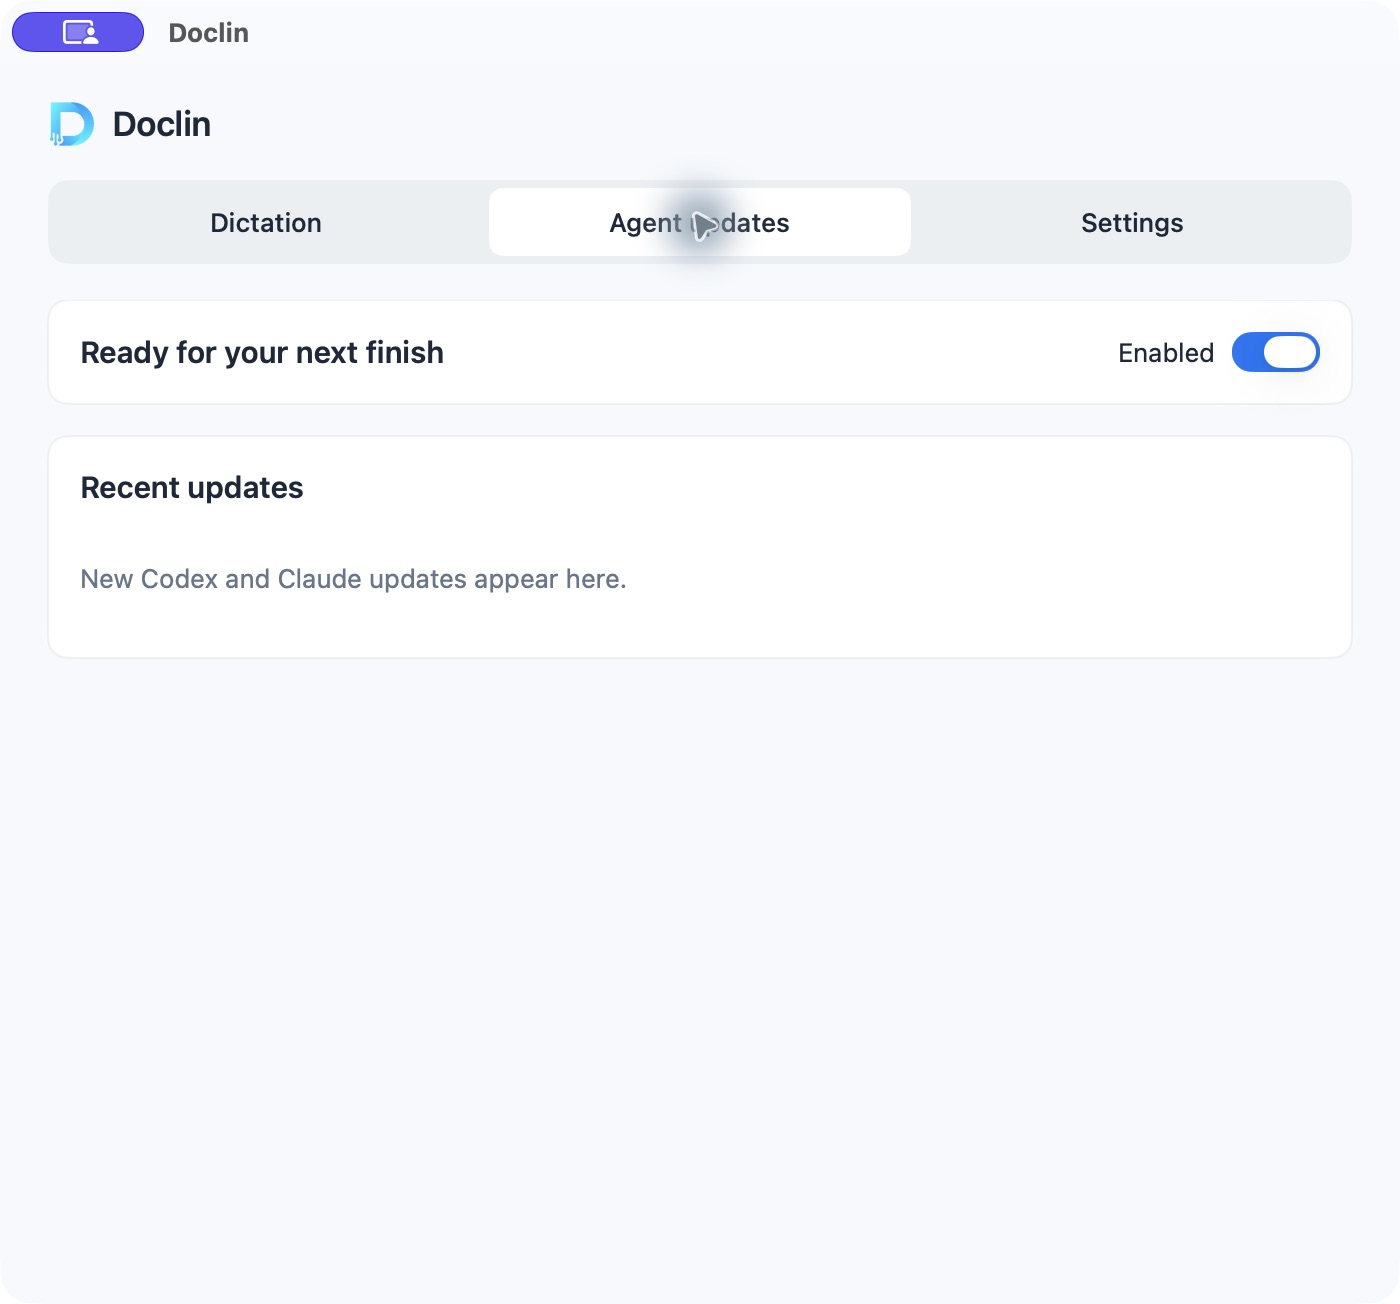
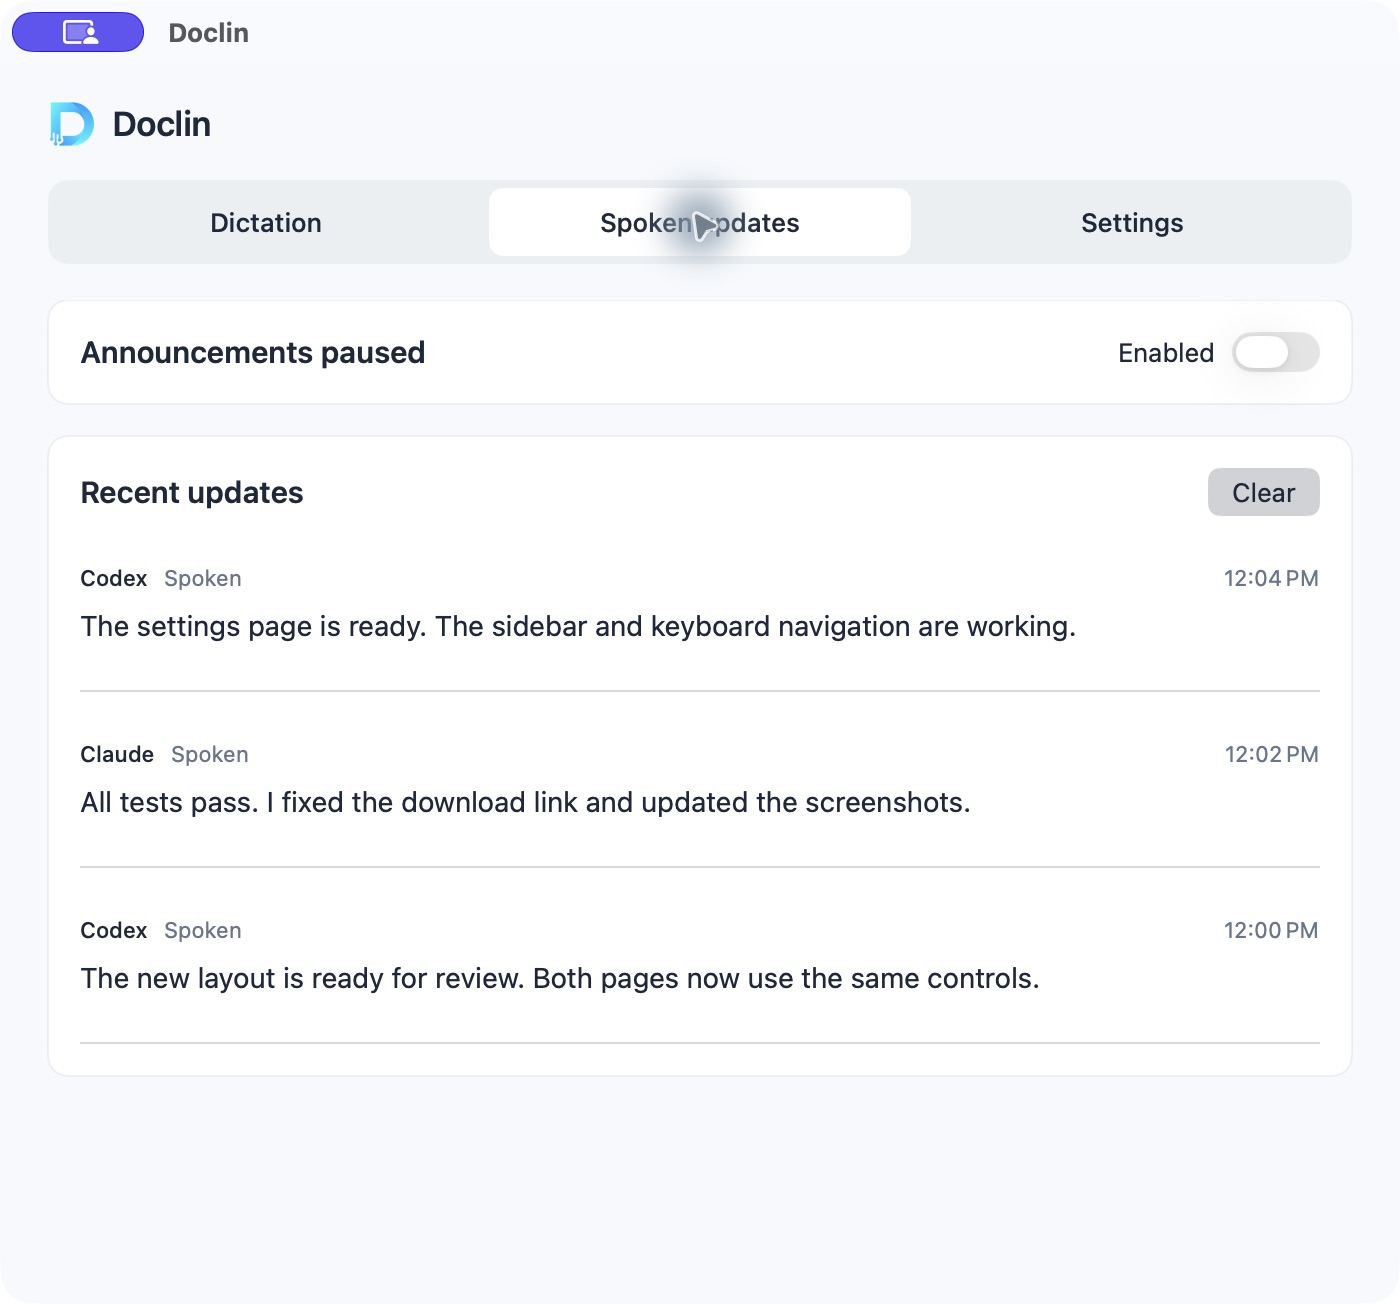
Show populated app previews and clarify Spoken updates label (#14)

diff --git a/Sources/Doclin/main.swift b/Sources/Doclin/main.swift
@@ -59,10 +59,21 @@ if CommandLine.arguments.contains("--doclin-hook") {
         if CommandLine.arguments.contains("--ui-audit"),
            DoclinPaths.support.path.hasPrefix("/tmp/doclin-"), !model.dictation.settings.enabled,
            model.preferences.muted, !model.preferences.codexEnabled, !model.preferences.claudeEnabled {
-            for i in 1...4 {
-                model.dictation.history.record(id: UUID(), text: "Dictation sample \(i). Keep the number 123 and the project name Doclin.", original: "dictation sample \(i) keep the number 123 and the project name Doclin", destination: "Notes", timestamp: Date().addingTimeInterval(Double(i)))
-                let event = AgentEvent(source: i % 2 == 0 ? "Codex" : "Claude", session: "ui-audit-\(i)", text: "Sample update \(i). Tests pass and the task is ready for review.", timestamp: Date().addingTimeInterval(Double(i)))
-                model.history.insert(Announcement(id: UUID(), event: event, text: event.text, state: "Spoken", mode: "Local"), at: 0)
+            let dictations = [
+                ("Notes", "Make the settings simpler: one sidebar, clear labels, and no repeated headings."),
+                ("Mail", "Hi Alex, the new build is ready. Could you try the Mac version and send me your feedback?")
+            ]
+            for (i, sample) in dictations.enumerated().reversed() {
+                model.dictation.history.record(id: UUID(), text: sample.1, original: sample.1, destination: sample.0, timestamp: Date().addingTimeInterval(Double(-120 * (i + 1))))
+            }
+            let updates = [
+                ("Codex", "The settings page is ready. The sidebar and keyboard navigation are working."),
+                ("Claude", "All tests pass. I fixed the download link and updated the screenshots."),
+                ("Codex", "The new layout is ready for review. Both pages now use the same controls.")
+            ]
+            for (i, sample) in updates.enumerated() {
+                let event = AgentEvent(source: sample.0, session: "ui-audit-\(i)", text: sample.1, timestamp: Date().addingTimeInterval(Double(-120 * (i + 1))))
+                model.history.append(Announcement(id: UUID(), event: event, text: event.text, state: "Spoken", mode: "Local"))
             }
         }
         #endif

diff --git a/docs/site/.vitepress/theme/style.css b/docs/site/.vitepress/theme/style.css
@@ -151,10 +151,6 @@
 .doclin-home .privacy-note { font-size: 13px; color: var(--vp-c-text-2); margin-top: 20px; }
 @media(max-width: 560px) { .doclin-home { margin-top: 38px; padding: 0 20px; } .doclin-home .lead { font-size: 17px; } .doclin-home .how-it-works { flex-direction: column; gap: 8px; } }
 
-.doclin-home .agent-details { margin: 22px auto 0; font-size: 14px; color: var(--vp-c-text-2); }
-.doclin-home .agent-details summary { cursor: pointer; color: var(--vp-c-brand-1); }
-.doclin-home .agent-details summary:focus-visible { outline: 2px solid #53a4f4; outline-offset: 4px; }
-
 /* One dark palette across the landing, installation and privacy pages. */
 :root, .dark {
   color-scheme: dark;
@@ -174,3 +170,13 @@
 .doclin-home .download { background: #5cdaff; color: #111827; }
 .doclin-home .download:hover { background: #8be6ff; }
 .doclin-home .app-shot { box-shadow: 0 14px 44px #0006; }
+
+.doclin-home .product-preview { margin: 30px auto 26px; }
+.doclin-home .preview-selector { display: inline-flex; gap: 4px; padding: 4px; border: 1px solid var(--vp-c-divider); border-radius: 12px; background: #111827; }
+.doclin-home .preview-selector button { min-height: 44px; padding: 9px 18px; border-radius: 8px; color: var(--vp-c-text-2); font-size: 14px; font-weight: 600; cursor: pointer; }
+.doclin-home .preview-selector button[aria-pressed="true"] { background: #213348; color: #edf6ff; }
+.doclin-home .preview-selector button:hover { color: #5cdaff; }
+.doclin-home .preview-selector button:focus-visible { outline: 2px solid #5cdaff; outline-offset: 2px; }
+.doclin-home .product-preview .app-shot { margin-top: 18px; margin-bottom: 14px; }
+.doclin-home .preview-caption { font-size: 13px; line-height: 1.6; color: var(--vp-c-text-2); }
+.doclin-home .preview-caption span { color: var(--vp-c-text-3); }

diff --git a/Sources/Doclin/AppModel.swift b/Sources/Doclin/AppModel.swift
@@ -162,7 +162,7 @@ struct Announcement: Identifiable {
             guard valid(ticket) else { return }
             if let speaker = LocalVoiceChoice.speaker(for: preferences.systemVoice) {
                 guard LocalVoice.available else {
-                    notice = "The local voice is unavailable. Update kept in Agent updates."
+                    notice = "The local voice is unavailable. Update kept in Spoken updates."
                     stopCurrent(reason: "Voice unavailable"); startNext(); return
                 }
                 do {
@@ -172,7 +172,7 @@ struct Announcement: Identifiable {
                     return
                 } catch {
                     if valid(ticket) {
-                        notice = "The local voice could not play. Update kept in Agent updates."
+                        notice = "The local voice could not play. Update kept in Spoken updates."
                         stopCurrent(reason: "Voice unavailable"); startNext()
                     }
                     return
@@ -218,7 +218,7 @@ struct Announcement: Identifiable {
                     }
                 } catch {
                     self.cleanSpeechFile()
-                    self.notice = "Could not play through the selected audio output. Update kept in Agent updates."
+                    self.notice = "Could not play through the selected audio output. Update kept in Spoken updates."
                     self.stopCurrent(reason: "Audio unavailable"); self.startNext()
                 }
             }

diff --git a/Sources/Doclin/Views.swift b/Sources/Doclin/Views.swift
@@ -40,7 +40,7 @@ struct DoclinView: View {
             HStack(spacing: 6) {
                 ForEach(["Dictation", "Activity", "Settings"], id: \.self) { name in
                     Button { model.tab = name } label: {
-                        Text(name == "Activity" ? "Agent updates" : name).font(.system(size: 13, weight: .medium))
+                        Text(name == "Activity" ? "Spoken updates" : name).font(.system(size: 13, weight: .medium))
                             .frame(maxWidth: .infinity).padding(.vertical, 9)
                             .background(section == name ? Color.white : hoveredTab == name ? Color.white.opacity(0.55) : .clear, in: RoundedRectangle(cornerRadius: 7))
                             .contentShape(Rectangle())
@@ -170,7 +170,7 @@ struct DoclinView: View {
                 }
                 DoclinSettingRow("Preview") { Button("Preview voice") { model.preview() }.disabled(model.preferences.muted) }
             }
-            DoclinSettingNote(model.preferences.muted ? "Turn on Agent updates to preview your voice. Local voices run on your Mac." : "Local voices run on your Mac. If playback fails, the update stays in Agent updates.")
+            DoclinSettingNote(model.preferences.muted ? "Turn on Spoken updates to preview your voice. Local voices run on your Mac." : "Local voices run on your Mac. If playback fails, the update stays in Spoken updates.")
         }
     }
     private var cloudSettings: some View {

diff --git a/docs/site/.vitepress/theme/components/ProductPreview.vue b/docs/site/.vitepress/theme/components/ProductPreview.vue
@@ -1,0 +1,23 @@
+<script setup>
+import { ref } from 'vue'
+const selected = ref('dictation')
+const examples = [
+  { id: 'dictation', label: 'Dictation', image: '/images/doclin-app.png', alt: 'Doclin with two example dictations ready to copy or edit' },
+  { id: 'updates', label: 'Spoken updates', image: '/images/doclin-agents.png', alt: 'Doclin with example spoken updates from Codex and Claude' }
+]
+</script>
+
+<template>
+  <section class="product-preview" aria-label="See Doclin in action">
+    <div class="preview-selector" role="group" aria-label="Choose a screenshot">
+      <button v-for="example in examples" :key="example.id" type="button"
+        :aria-pressed="selected === example.id" @click="selected = example.id">
+        {{ example.label }}
+      </button>
+    </div>
+    <div v-for="example in examples" v-show="selected === example.id" :key="example.id">
+      <img class="app-shot" :src="example.image" :alt="example.alt" width="1400" height="1304" />
+    </div>
+    <p class="preview-caption">{{ selected === 'dictation' ? 'Speak naturally. Copy or edit your words.' : 'Hear when Codex or Claude finishes a task.' }} <span>Sample content.</span></p>
+  </section>
+</template>

diff --git a/docs/site/index.md b/docs/site/index.md
@@ -2,14 +2,18 @@
 layout: page
 ---
 
+<script setup>
+import ProductPreview from './.vitepress/theme/components/ProductPreview.vue'
+</script>
+
 <div class="doclin-home">
   <h1>Dictate text. Hear your agents.</h1>
   <p class="lead">Dictation and spoken coding updates for Mac. Free and local by default.</p>
-  <a class="download" href="https://github.com/shawonibnkamal/doclin-macos/releases/download/v0.4.18/Doclin-0.4.18-mac.zip">Download Doclin for Mac</a>
+  <a class="download" href="https://github.com/shawonibnkamal/doclin-macos/releases/download/v0.4.19/Doclin-0.4.19-mac.zip">Download Doclin for Mac</a>
   <p class="download-note">macOS 13+ · Preview build · Not notarized</p>
   <p class="small-links"><a href="/setup">Installation help</a> · <a href="https://github.com/shawonibnkamal/doclin-macos">Source code</a></p>
-  <img class="app-shot" src="/images/doclin-app.png" alt="Recent dictated text in Doclin; options live in Settings" width="1400" height="1304" />
+  <ProductPreview />
   <div class="how-it-works"><span><b>1</b> Hold Right ⌘</span><span><b>2</b> Speak</span><span><b>3</b> Release to type</span></div>
-  <details class="agent-details"><summary>See agent updates</summary><img class="app-shot" src="/images/doclin-agents.png" alt="Recent spoken agent updates in Doclin; voice and connection controls live in Settings" width="1400" height="1304" /><p>Connect Codex or Claude. Hear a short update when a response is ready.</p></details>
+
   <p class="privacy-note">Local by default. Optional cloud features are off. <a href="/privacy">Privacy details</a></p>
 </div>

diff --git a/README.md b/README.md
@@ -16,7 +16,7 @@ See [dictation checks and limitations](DICTATION-QUALITY-QA.md).
 
 ## Download for Mac
 
-[Download Doclin 0.4.18](https://github.com/shawonibnkamal/doclin-macos/releases/download/v0.4.18/Doclin-0.4.18-mac.zip).
+[Download Doclin 0.4.19](https://github.com/shawonibnkamal/doclin-macos/releases/download/v0.4.19/Doclin-0.4.19-mac.zip).
 Unzip, move Doclin.app to Applications, and enable dictation on the Dictation page. Allow Microphone
 and Accessibility, then hold Right Command in a text field to speak.
 
@@ -61,9 +61,9 @@ Alternative shortcuts are available if another dictation app uses Right Command.
 The recording limit is five minutes with enhanced recognition, 55 seconds with
 legacy local recognition, and 90 seconds with optional OpenAI transcription.
 
-The Dictation and Agent updates tabs list the last 30 entries from this session.
+The Dictation and Spoken updates tabs list the last 30 entries from this session.
 Copy or edit dictated text there. Histories stay in memory and clear on quit.
-Settings uses a category sidebar with aligned rows for configuration, permissions, connections, and voice previews. Enabled toggles stay on the main Dictation and Agent updates pages.
+Settings uses a category sidebar with aligned rows for configuration, permissions, connections, and voice previews. Enabled toggles stay on the main Dictation and Spoken updates pages.
 
 ## Spoken agent updates
 

diff --git a/RELEASE.md b/RELEASE.md
@@ -1,5 +1,5 @@
-# Doclin 0.4.18 — Consistent main pages
+# Doclin 0.4.19 — Clearer name and product previews
 
-Dictation and Agent updates share the same status row, enable toggle and history layout. Local processing details stay in Settings. Both main pages show a matching notice when optional OpenAI processing is configured.
+Renames the Agent updates tab to Spoken updates, including voice-preview and playback recovery messages. The website shows real app screenshots populated with clearly labeled sample content, with a simple selector for both features.
 
 Universal macOS 13+ development-signed preview, not Apple notarized.

diff --git a/docs/site/setup.md b/docs/site/setup.md
@@ -1,6 +1,6 @@
 # Install Doclin
 
-[Download Doclin for Mac](https://github.com/shawonibnkamal/doclin-macos/releases/download/v0.4.18/Doclin-0.4.18-mac.zip).
+[Download Doclin for Mac](https://github.com/shawonibnkamal/doclin-macos/releases/download/v0.4.19/Doclin-0.4.19-mac.zip).
 
 1. Unzip the download and move **Doclin.app** to Applications.
 2. Turn on **Enabled** on the **Dictation** page.
